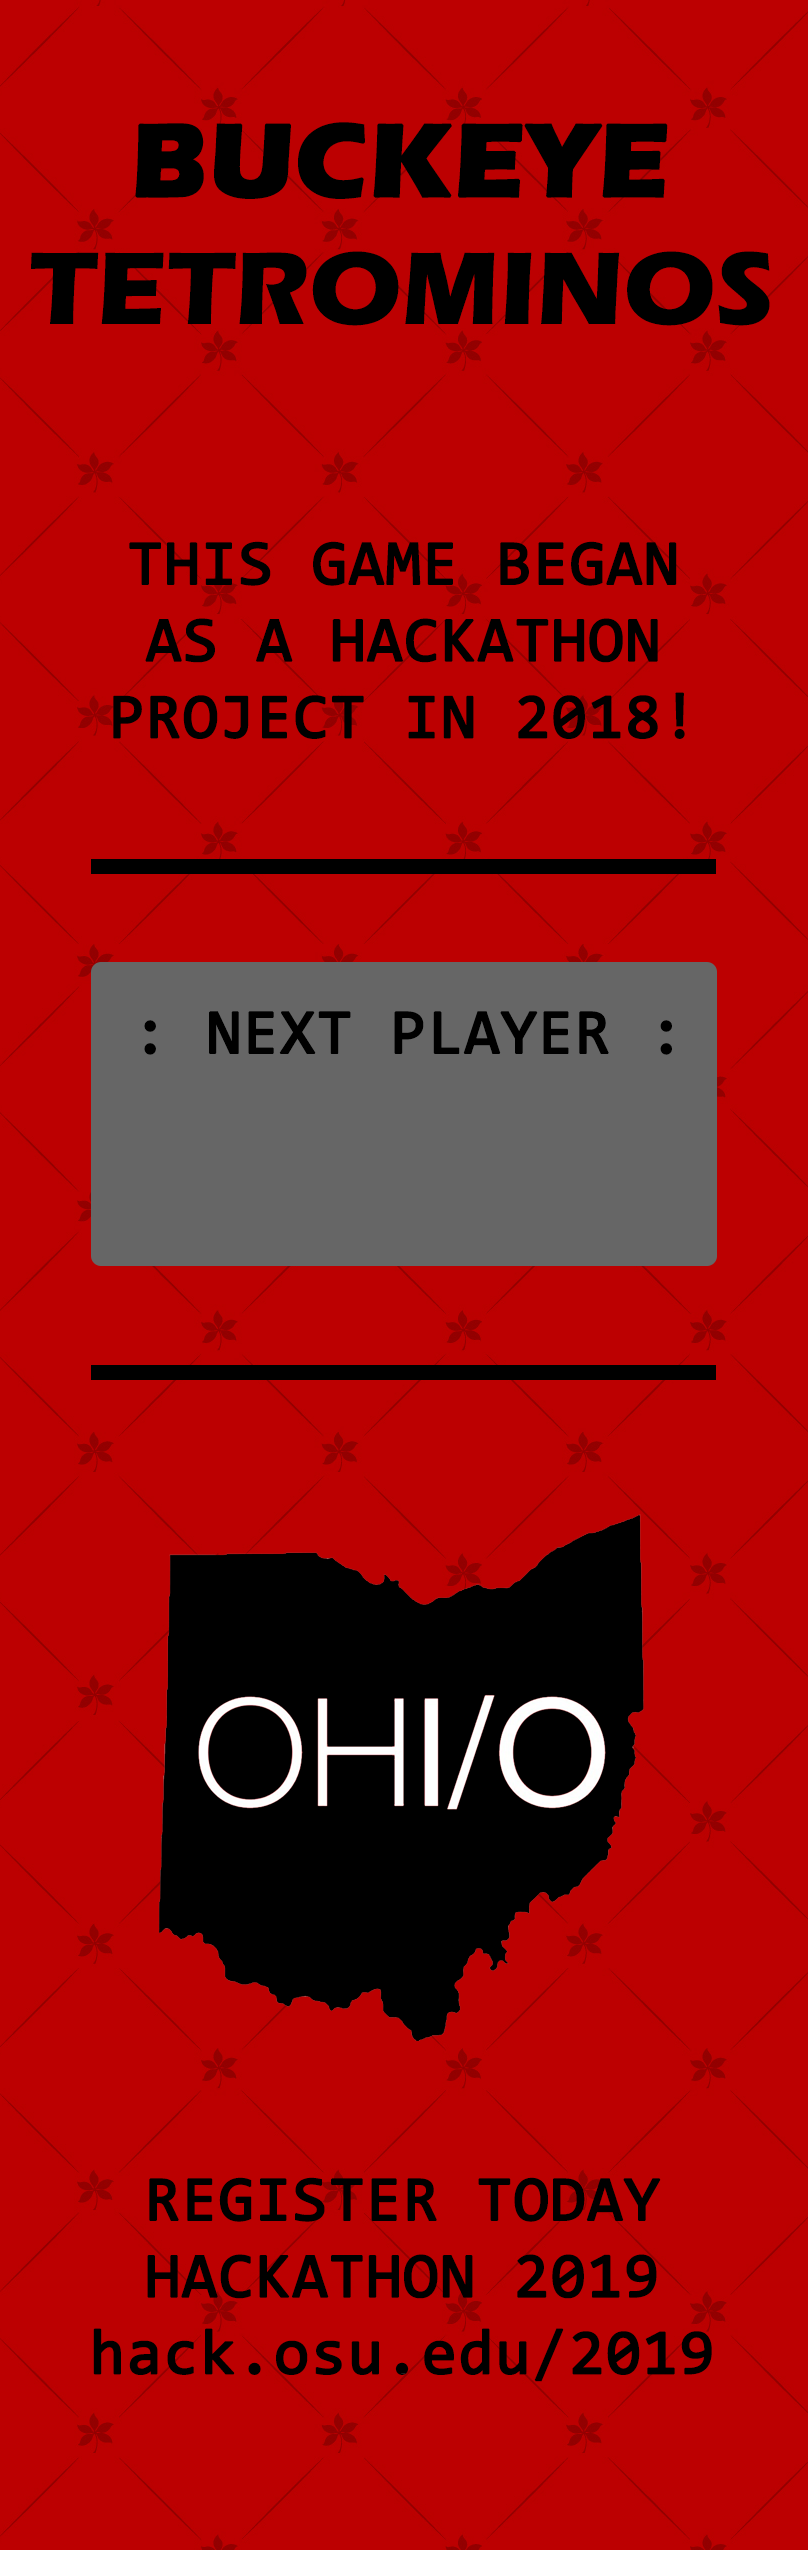
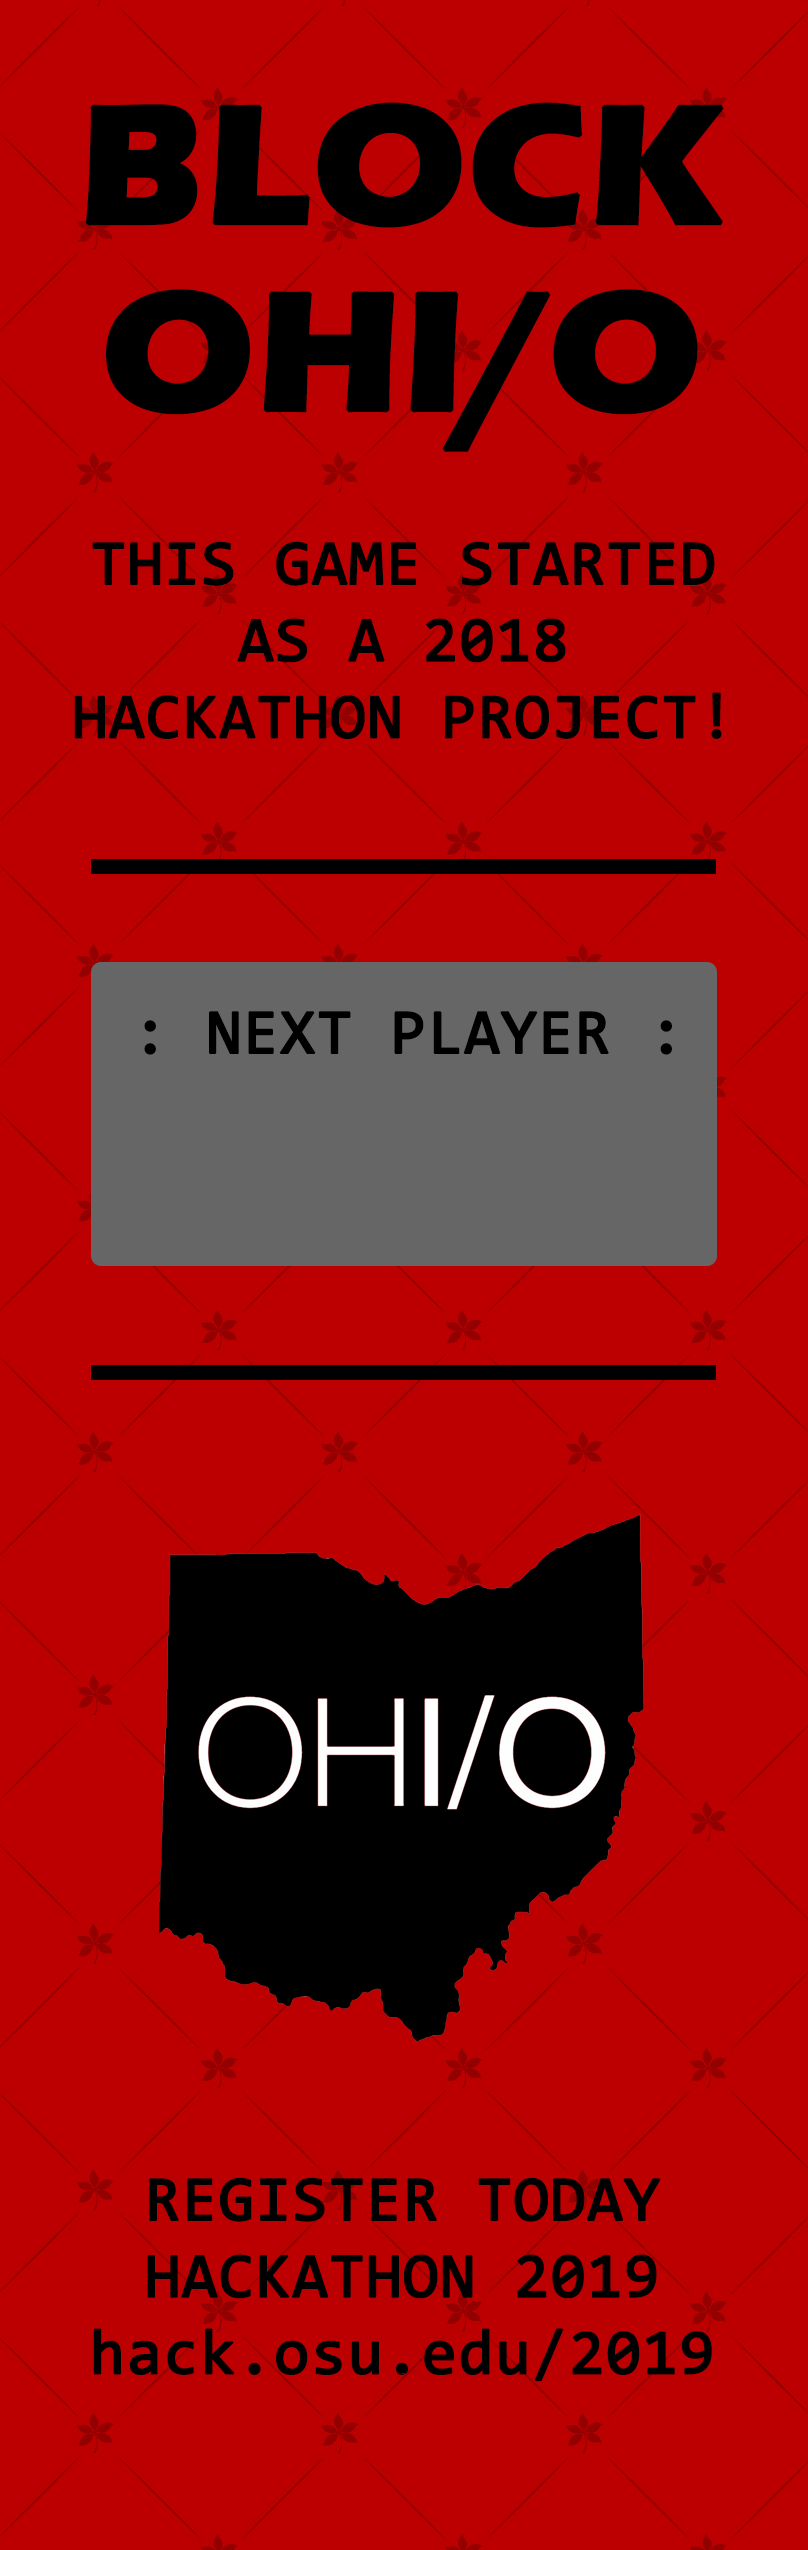
Add files via upload

Changed region(s): [[0.0309, 0.031, 0.9592, 0.3098], [0.8663, 0.2788, 0.8973, 0.3098]]

diff --git a/src/main.py b/src/main.py
@@ -139,7 +139,7 @@ class GameView(arcade.View):
 
     def on_show(self):
         print("GameView Opened!")
-        arcade.set_background_color(arcade.color.GREEN)                         # Set Background. Required. Do not delete def!
+        arcade.set_background_color([187,0,0])                         # Set Background. Required. Do not delete def!
         self.window.set_mouse_visible(False)                                    # Hide mouse cursor
 
 
@@ -286,7 +286,6 @@ class GameView(arcade.View):
 
     def draw_background(self):
         """ Draws the most epic background ever imaginable. """
-        #backing = arcade.load_texture(BACKGROUNDS[0])
         arcade.draw_texture_rectangle(  center_x = SCREEN_WIDTH // 2,  center_y = SCREEN_HEIGHT // 2,
                                         width    = SCREEN_WIDTH,       height   = SCREEN_HEIGHT,
                                         texture  = self.background )
@@ -314,9 +313,7 @@ class GameView(arcade.View):
                         arcade.draw_rectangle_filled(next_xposn+(x-1)*(WIDTH+MARGIN), next_yposn+(y*-2+1)*(HEIGHT/2+MARGIN), WIDTH, HEIGHT, colors[color])
 
     def draw_grid(self, grid, offset_x, offset_y):
-        """
-        Draw the grid. Used to draw the falling stones. The board is drawn by the sprite list.
-        """
+        """ Draw the grid. Used to draw the falling stones. The board is drawn by the sprite list. """
         # Draw the grid
         for row in range(len(grid)):
             for column in range(len(grid[0])):
@@ -324,7 +321,7 @@ class GameView(arcade.View):
                 if grid[row][column]:
                     color = colors[grid[row][column]]
                     # Do the math to figure out where the box is
-                    x = (MARGIN + WIDTH) * (column + offset_x) + SCREEN_MARGIN + WIDTH // 2                    #MAY NEED FIXED WITH NEW SCREEN SIZE
+                    x = (MARGIN + WIDTH) * (column + offset_x) + SCREEN_MARGIN + WIDTH // 2                                  #MAY NEED FIXED WITH NEW SCREEN SIZE
                     y = TETRIS_HEIGHT - HIDE_BOTTOM - (MARGIN + HEIGHT) * (row + offset_y) + SCREEN_MARGIN + HEIGHT // 2     #MAY NEED FIXED WITH NEW SCREEN SIZE
 
                     # Draw the box
@@ -349,8 +346,8 @@ class GameView(arcade.View):
             self.addedScore = True
             ALL_SCORES.sort(reverse = True )
             saveScores(ALL_SCORES)
-            print("Added score & Sorted Scoreboard")
-            print(ALL_SCORES)
+            #print("Added score & Sorted Scoreboard")
+            #print(ALL_SCORES)
 
     def write_name(self):
         """ Draw the mini score board when the player start playing. """
@@ -502,7 +499,7 @@ class GameView(arcade.View):
 class MenuView(arcade.View):
 
     def on_show(self):
-        arcade.set_background_color(arcade.color.GREEN)                         # Set Background. Required. Do not delete def!
+        arcade.set_background_color([187,0,0])                                  # Set Background. Required. Do not delete def!
 
     def on_draw(self):
         arcade.start_render()
@@ -515,13 +512,13 @@ class MenuView(arcade.View):
         # BUTTON GRAPHICS :D
         # Buttons are not intended to be clickable
         button = arcade.load_texture(BUTTONS[0])
-        arcade.draw_texture_rectangle(  center_x=SCREEN_WIDTH // 2, center_y=SCREEN_HEIGHT // 2,
+        arcade.draw_texture_rectangle(  center_x=SCREEN_WIDTH // 2, center_y=SCREEN_HEIGHT // 2 + TOWER_BUFFER,
                                         width= SCREEN_WIDTH*0.58, height= SCREEN_HEIGHT*0.04, texture=button)
         button = arcade.load_texture(BUTTONS[1])
-        arcade.draw_texture_rectangle(  center_x=SCREEN_WIDTH // 2, center_y=SCREEN_HEIGHT // 2 - (SCREEN_HEIGHT*0.05),
+        arcade.draw_texture_rectangle(  center_x=SCREEN_WIDTH // 2, center_y=SCREEN_HEIGHT // 2 - (SCREEN_HEIGHT*0.05) + TOWER_BUFFER,
                                         width= SCREEN_WIDTH*0.58, height= SCREEN_HEIGHT*0.04, texture=button)
         button = arcade.load_texture(BUTTONS[2])
-        arcade.draw_texture_rectangle(  center_x=SCREEN_WIDTH // 2, center_y=SCREEN_HEIGHT // 2 - (SCREEN_HEIGHT*0.1),
+        arcade.draw_texture_rectangle(  center_x=SCREEN_WIDTH // 2, center_y=SCREEN_HEIGHT // 2 - (SCREEN_HEIGHT*0.1) + TOWER_BUFFER,
                                         width= SCREEN_WIDTH*0.58, height= SCREEN_HEIGHT*0.04, texture=button)
 
 
@@ -566,7 +563,7 @@ class LBView(arcade.View):
 
     def on_show(self):
         # Set Background. Required. Do not delete def!
-        arcade.set_background_color(arcade.color.GREEN)
+        arcade.set_background_color([187,0,0])
 
     def on_draw(self):
         arcade.start_render()
@@ -578,21 +575,21 @@ class LBView(arcade.View):
                                         texture  = self.background )
 
         # Populate Leaderboard
-        currentRowHeight = SCREEN_HEIGHT * 0.8
+        currentRowHeight = SCREEN_HEIGHT * 0.813
         for row in ALL_SCORES[0:34]:
             arcade.draw_text( str(row[0]), start_x= SCREEN_WIDTH * 0.353, start_y= currentRowHeight,
                               anchor_x = "center", anchor_y = "center",
                               color= arcade.color.WHITE,
-                              font_size=float(SCREEN_HEIGHT*0.015),
+                              font_size=float(SCREEN_HEIGHT*0.013),
                               font_name='arial',
                               align= "center", bold = True)
             arcade.draw_text( str(row[1]), start_x= SCREEN_WIDTH * 0.718, start_y= currentRowHeight,
                               anchor_x = "center", anchor_y = "center",
                               color= arcade.color.WHITE,
-                              font_size=float(SCREEN_HEIGHT*0.015),
+                              font_size=float(SCREEN_HEIGHT*0.013),
                               font_name='arial-bold',
                               align= "center", bold = True)
-            currentRowHeight -= SCREEN_HEIGHT * 0.018055
+            currentRowHeight -= SCREEN_HEIGHT * 0.01685
 
 
 
@@ -622,7 +619,7 @@ class PNameView(arcade.View):
 
     def on_show(self):
         # Set Background. Required. Do not delete def!
-        arcade.set_background_color(arcade.color.GREEN)
+        arcade.set_background_color([187,0,0])
 
     def on_draw(self):
         arcade.start_render()
@@ -638,7 +635,7 @@ class PNameView(arcade.View):
         self.player_name = ''
 
     def on_mouse_press(self, x, y, button, modifiers):
-        print("toast... clicking doesn't do anything")
+        print("Clicking doesn't do anything")
 
     def on_key_press(self, key, modifiers):
         if key == 65470:
@@ -683,9 +680,9 @@ class PNameView(arcade.View):
 
 
     def write_name(self):
-        """ Draw the mini score board when the player start playing. """
+        """ Draw and update the current players name as entered. """
         player_name = f"{self.player_name}"
-        arcade.draw_text(player_name, 46, 530, arcade.color.BLACK, 20, width=250, align="center")
+        arcade.draw_text(player_name, 46, SCREEN_HEIGHT*0.54, arcade.color.BLACK, 20, width=int(SCREEN_WIDTH*0.731), align="center")
 
         # ADAM REVIEW
         #arcade.draw_text("- CURRENT CHALLENGER -", SCREEN_WIDTH/2, SCREEN_HEIGHT*0.94, arcade.color.CADET_GREY,  float(SCREEN_HEIGHT*0.021), align="center", anchor_x="center", anchor_y="center")
@@ -710,11 +707,11 @@ def main():
     FULL_SCREEN = False
 
     # Setup Questions
-    askScores = input("Import Scores? (y/null): ")
+    askScores = input("Import Scores? (n/null): ")
     if input("Full Screen?   (y/null): ") == 'y': FULL_SCREEN = True
 
     # Import Old Scoreboard
-    if askScores == "y": ALL_SCORES = importScores()
+    if askScores != "n" or askScores != "N": ALL_SCORES = importScores()
     print(ALL_SCORES)
 
 

diff --git a/src/game_variables.py b/src/game_variables.py
@@ -13,14 +13,11 @@ LOGO_TITLE = "assets" + os.sep +  "title_buckeyetetris.png"
 # Button Textures
 BUTTONS = [ "assets" + os.sep + "button_play.png",
             "assets" + os.sep + "button_leaderboard.png",
-            "assets" + os.sep + "button_menu.png",
-            "assets" + os.sep + "button_exit.png" ]
+            "assets" + os.sep + "button_exit.png",
+            "assets" + os.sep + "button_menu.png" ]
 
 # Game over text
 GAME_OVER = "assets" + os.sep +  "gameover.png"
-
-#pixel multiplier
-#pm = 0.0178571429
 
 
 ############-- MISC GLOBAL VARIABLES --##################
@@ -38,15 +35,17 @@ COLUMN_COUNT = 10
 #SCREEN_WIDTH  = 513
 #SCREEN_HEIGHT = 1512
 SCREEN_WIDTH  = 342
-SCREEN_HEIGHT = 1008
-SCREEN_TITLE  = "Tetris"
+SCREEN_HEIGHT = 1080
+SCREEN_TITLE  = "BLOCK OHI/O"
+
+TOWER_BUFFER = SCREEN_HEIGHT*0.066666666
 
 #- Stone Components
 WIDTH  = int(0.0877193 * SCREEN_WIDTH)               # og: 30  brick & cell WIDTH
 HEIGHT = WIDTH                                       # og: 30  brick & cell HEIGHT
 MARGIN = int(0.0666666 * 0.0877193 * SCREEN_WIDTH)   # og:  2  This sets the margin between each cell
 
-HIDE_BOTTOM   = HEIGHT+MARGIN
+HIDE_BOTTOM   = HEIGHT+MARGIN - TOWER_BUFFER
 SCREEN_MARGIN = (1/2) * (SCREEN_WIDTH - COLUMN_COUNT*( WIDTH+MARGIN ))
 
 # TETRIS BOARD dimensions
@@ -55,21 +54,17 @@ TETRIS_WIDTH = SCREEN_WIDTH * 0.95
 TETRIS_HEIGHT = (HEIGHT + MARGIN) * ROW_COUNT + MARGIN
 
 
-
 ############-- GAME VIEW ITEM PLACEMENT --##################
-
 e_mscb_height = 100
 e_mscb_width = 150
 e_mscb_xposn  = 92
-e_mscb_yposn  = TETRIS_HEIGHT + (0.02*SCREEN_HEIGHT) + e_mscb_height/2
-
+e_mscb_yposn  = TETRIS_HEIGHT + TOWER_BUFFER + (0.02*SCREEN_HEIGHT) + e_mscb_height/2
 
 ############-- NEXT STONE BOX --##################
-
 next_height = 100
 next_width = 150
 next_xposn  = 250
-next_yposn  = TETRIS_HEIGHT + (0.02*SCREEN_HEIGHT) + e_mscb_height/2
+next_yposn  = TETRIS_HEIGHT + TOWER_BUFFER + (0.02*SCREEN_HEIGHT) + e_mscb_height/2
 
 ################################################################################
 # Define Tetris colors
